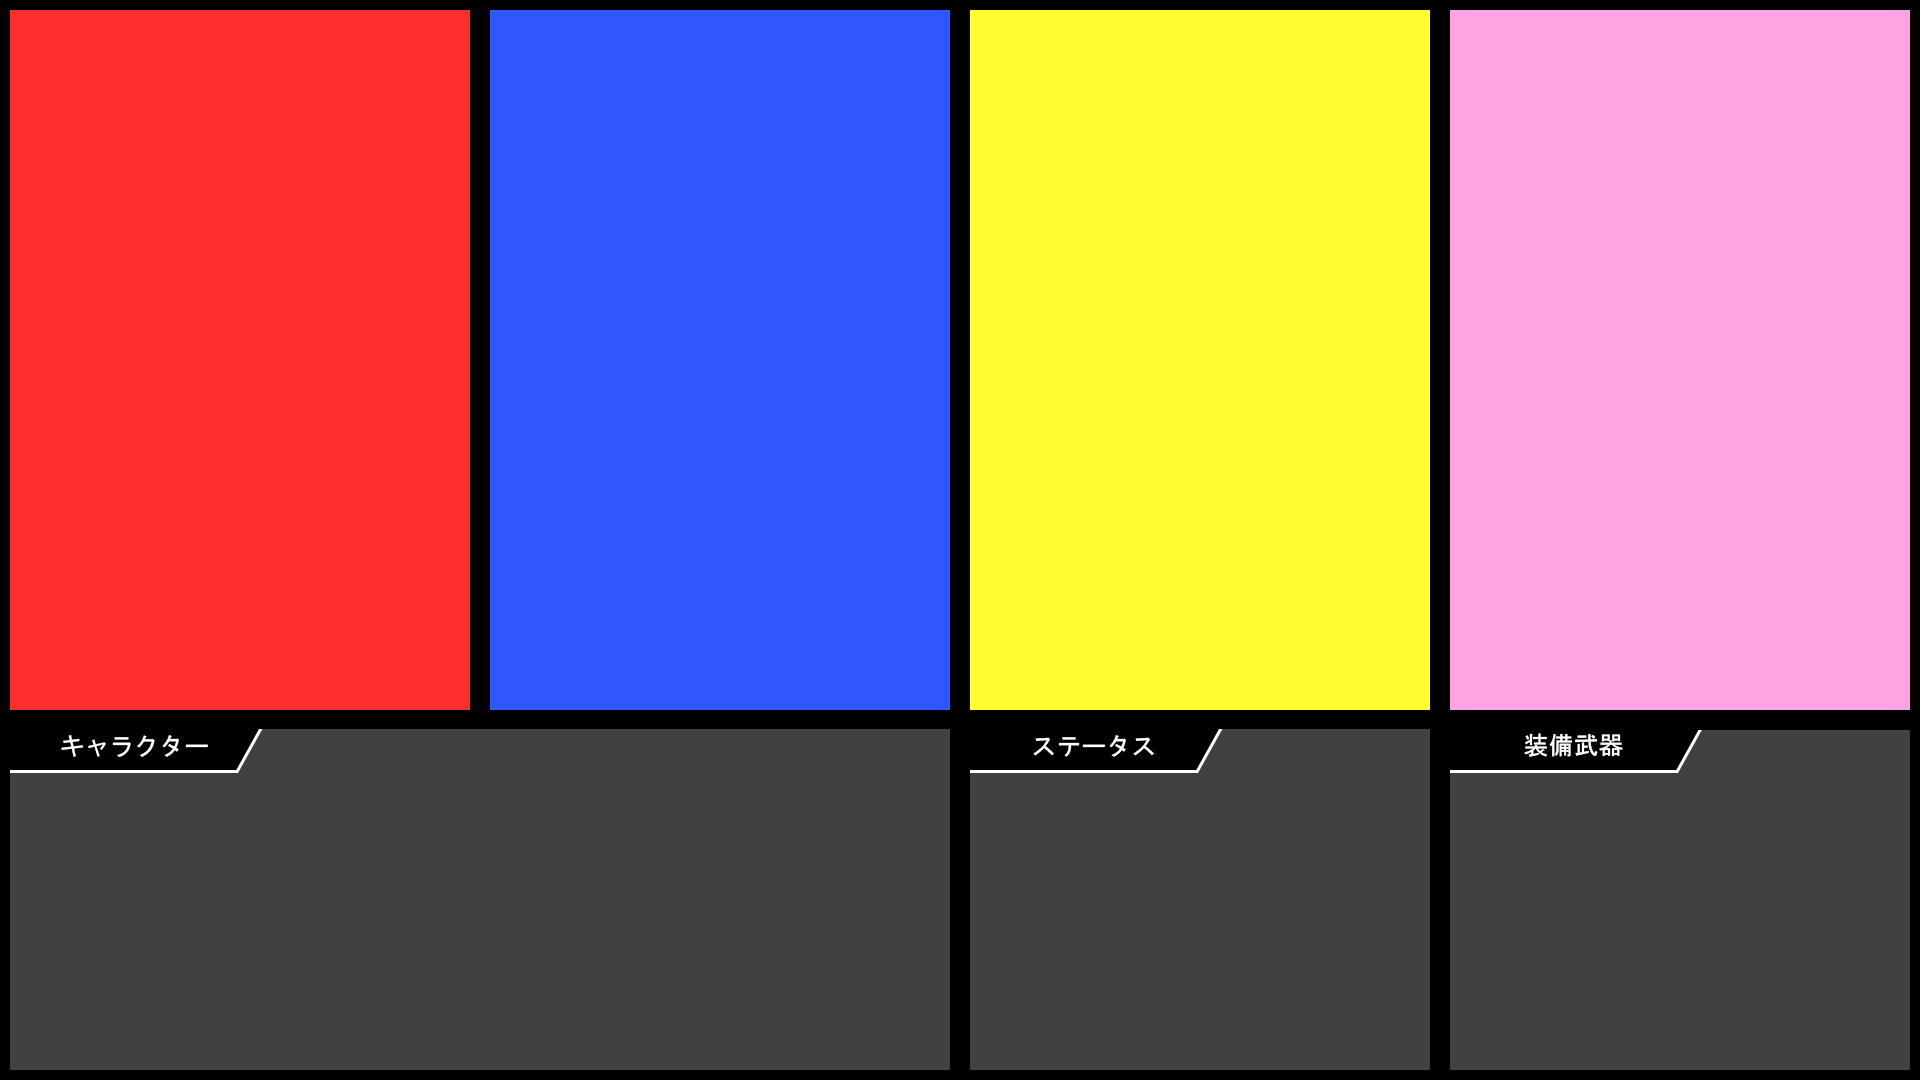
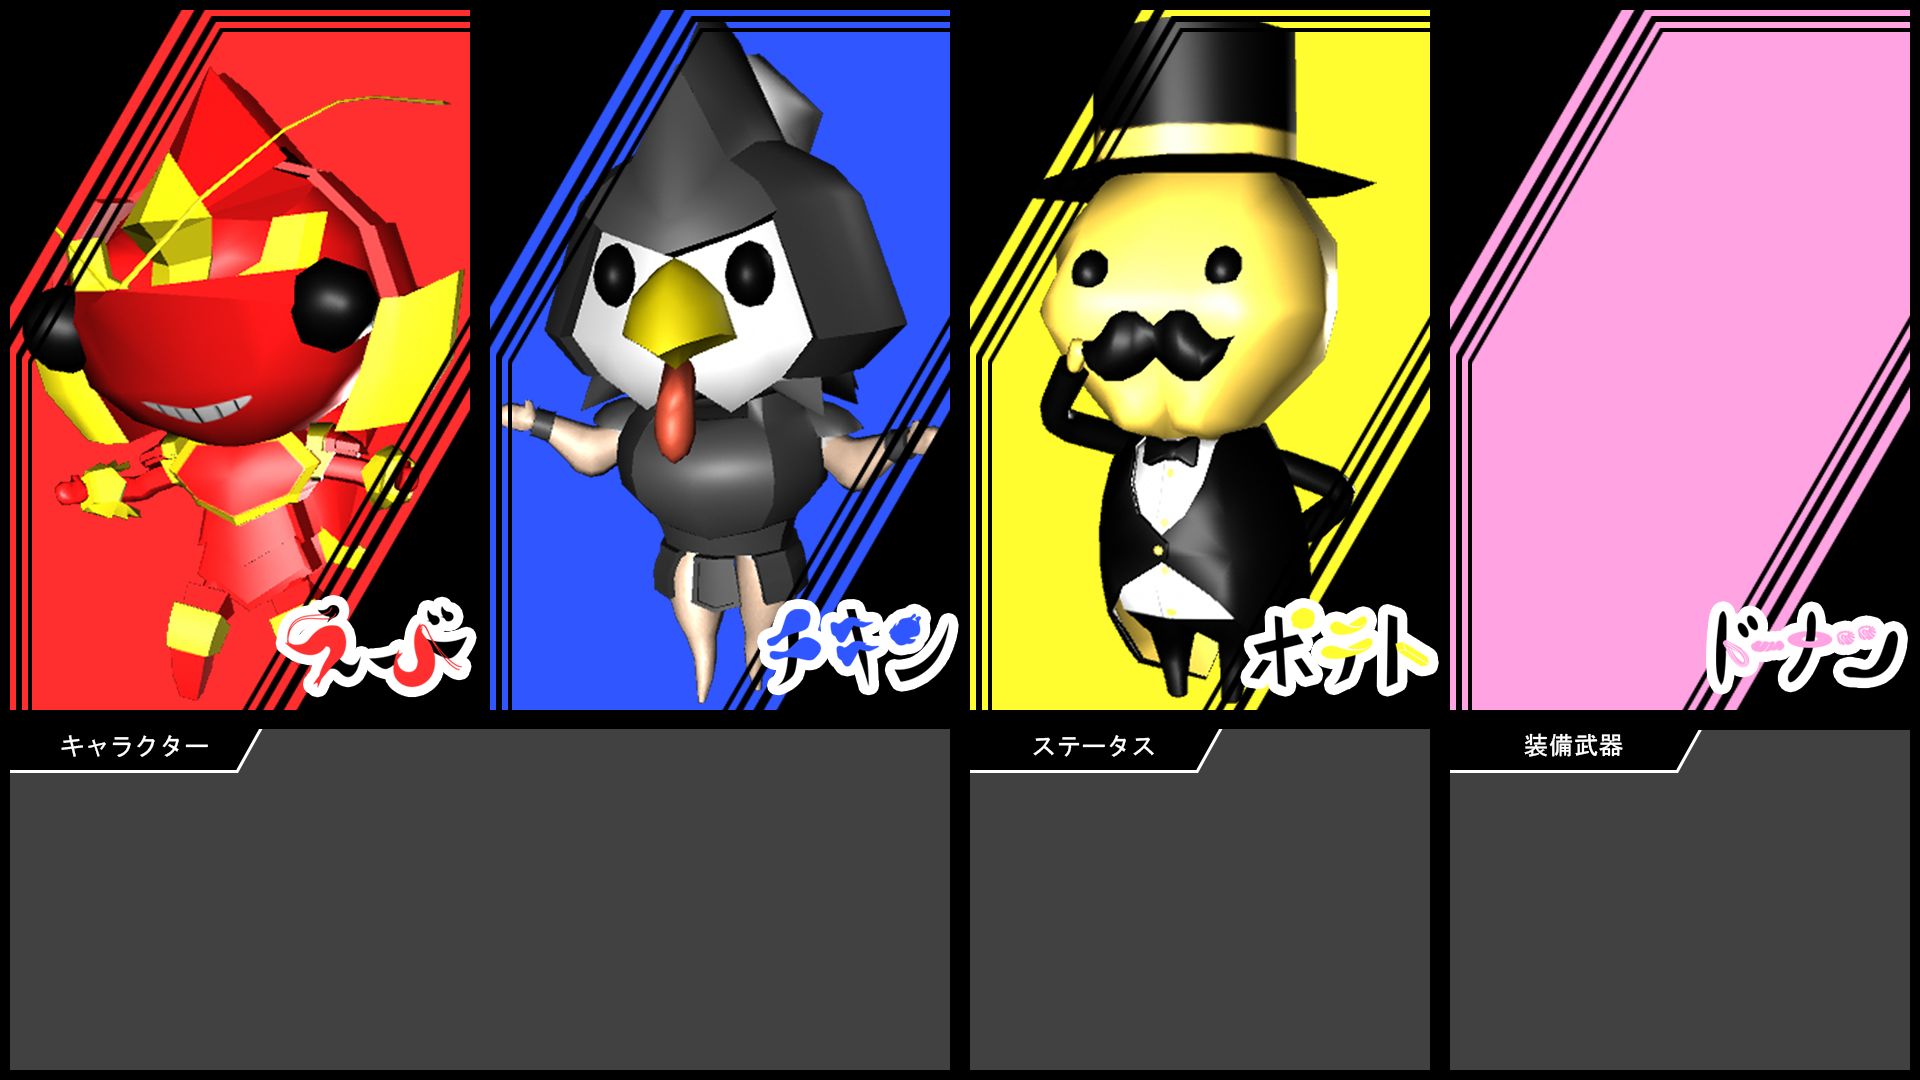
キャラクターセレクト画面の画像差し替え

diff --git a/TGS/ProjectData/GameSources/CharSelect.cpp b/TGS/ProjectData/GameSources/CharSelect.cpp
@@ -30,7 +30,7 @@ namespace basecross {
 
 		m_characterLogo = AddGameObject<UI_Static_Image>(
 			Vec2(631.0f, 278.0f),
-			Vec3(-480.0f, -380.0f, 0.0f),
+			Vec3(-25.0f, -380.0f, 0.0f),
 			Vec3(1.0f, 1.0f, 1.0f),
 			m_layer,
 			Col4(1.0f, 1.0f, 1.0f, 1.0f),
@@ -76,32 +76,32 @@ namespace basecross {
 		case 0:
 			m_characterLogo->SetTexture(
 				m_shrimpImageName,
-				Vec2(631.0f, 298.0f),
-				Vec3(0.95f, 0.95f, 0.95f)
+				Vec2(1845.0f, 287.0f),
+				Vec3(1.0f)
 			);
 			m_characterStatus->ChangeCharacterStatus(CharacterType::SHRIMP);
 			break;
 		case 1:
 			m_characterLogo->SetTexture(
 				m_chickenImageName,
-				Vec2(631.0f, 278.0f),
-				Vec3(1.0f, 1.0f, 1.0f)
+				Vec2(1845.0f, 287.0f),
+				Vec3(1.0f)
 			);
 			m_characterStatus->ChangeCharacterStatus(CharacterType::CHICKEN);
 			break;
 		case 2:
 			m_characterLogo->SetTexture(
 				m_potatoImageName,
-				Vec2(621.0f, 285.0f),
-				Vec3(1.0f, 1.0f, 1.0f)
+				Vec2(1845.0f, 287.0f),
+				Vec3(1.0f)
 			);
 			m_characterStatus->ChangeCharacterStatus(CharacterType::POTATO);
 			break;
 		case 3:
 			m_characterLogo->SetTexture(
 				m_doughnutImageName,
-				Vec2(631.0f, 264.0f),
-				Vec3(1.0f, 1.0f, 1.0f)
+				Vec2(1845.0f, 287.0f),
+				Vec3(1.0f)
 			);
 			m_characterStatus->ChangeCharacterStatus(CharacterType::DOUGHNUT);
 			break;
